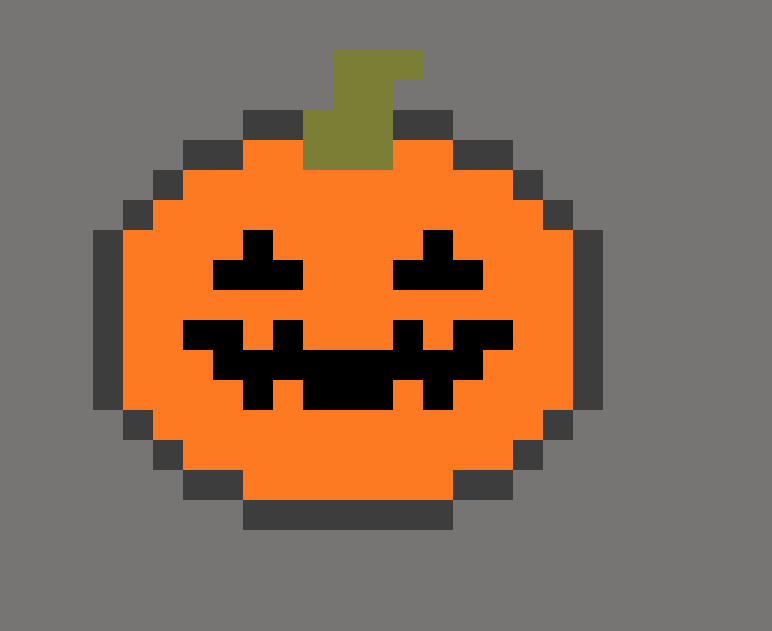
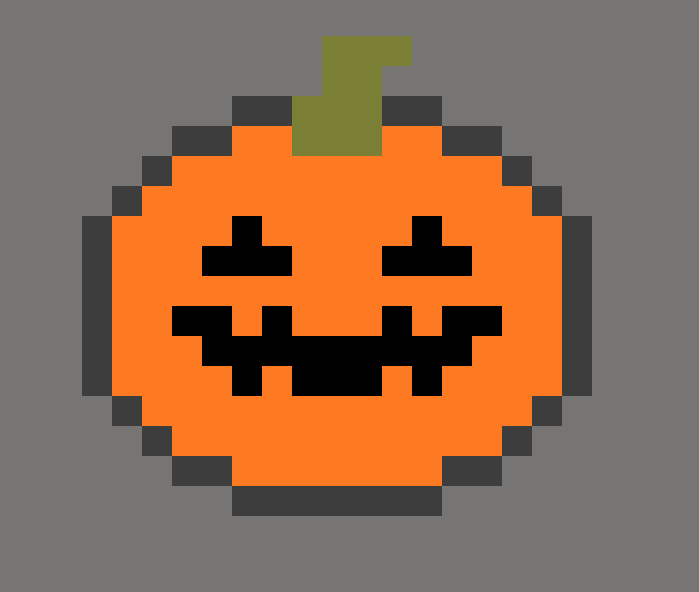
added name to index.html and fixed pumpkin.png

Changed region(s): [[0.1202, 0.0608, 0.8712, 0.8818]]

diff --git a/index.html b/index.html
@@ -1,5 +1,6 @@
 <!DOCTYPE html>
 <html lang="en" dir="ltr">
+
 <head>
   <meta charset="utf-8">
   <link href="https://fonts.googleapis.com/css?family=Bungee+Inline|Open+Sans" rel="stylesheet">
@@ -12,7 +13,7 @@
   <h2>A ZTM Challenge for Hacktoberfest</h2>
 
   <div class='container'>
-     <!--Anca -->
+    <!--Anca -->
     <div class='card'>
       <a href='./Art/Anca/index.html' target='_blank'>
         <p class='project-name'>Spooky Family</p>
@@ -131,17 +132,17 @@
         <a href="https://github.com/krzysiekh" target="_blank">Kris</a>
       </p>
     </div>
-    
+
     <!-- Fischbot -->
     <div class='card'>
-        <a href='./fischbot/index.html' target='_blank'>
-          <p class='project-name'>8-bit style Link</p>
-          <img src='./fischbot/link.png' alt='8-bit Link'/>
-        </a>
-        <p class='author'>by
-          <a href="https://github.com/fischbot" target="_blank">fischbot</a>
-        </p>
-      </div>
+      <a href='./fischbot/index.html' target='_blank'>
+        <p class='project-name'>8-bit style Link</p>
+        <img src='./fischbot/link.png' alt='8-bit Link' />
+      </a>
+      <p class='author'>by
+        <a href="https://github.com/fischbot" target="_blank">fischbot</a>
+      </p>
+    </div>
 
     <!-- Jhonattan -->
     <div class='card'>
@@ -299,14 +300,14 @@
 
     <!-- Sanjith -->
     <div class='card'>
-      <a href='./Art/sanjithpk/index.html'_blank'>
+      <a href='./Art/sanjithpk/index.html' _blank'>
         <p class='project-name'>Sunrise and Sunset</p>
-        <img src='./Art/sanjithpk/sun.png' alt='Sun'/>
+        <img src='./Art/sanjithpk/sun.png' alt='Sun' />
       </a>
       <p class='author'>by
         <a href="https://github.com/sanjithpk" target="_blank">Sanjith</a>
       </p>
-  </div>
+    </div>
 
     <!-- Martyav -->
     <div class='card'>
@@ -318,38 +319,49 @@
         <a href="https://github.com/martyav" target="_blank">Martyav</a>
       </p>
 
-  </div>
+    </div>
 
-	<!-- AmyK -->
-  <div class='card'>
+    <!-- AmyK -->
+    <div class='card'>
       <a href='./Art/Astro/index.html' target='_blank'>
         <p class='project-name'>Macho Ghost</p>
-        <img src='./Art/Astro/ghost.jpeg' alt='Ghost'/>
+        <img src='./Art/Astro/ghost.jpeg' alt='Ghost' />
       </a>
       <p class='author'>by
         <a href="https://github.com/astrokwk" target="_blank">Amy</a>
       </p>
-  </div>
+    </div>
 
-	<!-- Frozenfroggie -->
-  <div class='card'>
+    <!-- Frozenfroggie -->
+    <div class='card'>
       <a href='./Art/Frozenfroggie/index.html' target='_blank'>
         <p class='project-name'>CSS Loader</p>
-        <img src='./Art/Frozenfroggie/loader.gif' alt='Loader'/>
+        <img src='./Art/Frozenfroggie/loader.gif' alt='Loader' />
       </a>
       <p class='author'>by
         <a href="https://github.com/frozenfroggie" target="_blank">Frozenfroggie</a>
       </p>
+    </div>
+
+    <!-- Matthew -->
+    <div class='card'>
+      <a href='./Art/8bit-pumpkin/index.html' target='_blank'>
+        <p class='project-name'>8bit-pumpkin</p>
+        <img src='./Art/8bit-pumpkin/pumpkin.png' alt='Loader' />
+      </a>
+      <p class='author'>by
+        <a href="https://github.com/MatthewStoddart" target="_blank">MatthewS</a>
+      </p>
+    </div>
+
+
   </div>
 
-
-
-  </div>
-
-  <footer id = "footer">
+  <footer id="footer">
     <div>
       © 2017-2018 Zero To Mastery Inc.
     </div>
   </footer>
 </body>
+
 </html>
